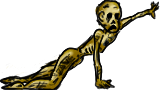
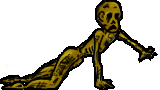
momia

diff --git a/Documents/Cuarto/Videojuegos/ProyectoFinal/src/proyectofinal/Momia.java b/Documents/Cuarto/Videojuegos/ProyectoFinal/src/proyectofinal/Momia.java
@@ -47,11 +47,19 @@ public class Momia extends Base {
         super(posX, posY);
         //Se cargan las imágenes(cuadros) para la animación
         Image momia = Toolkit.getDefaultToolkit().getImage(this.getClass().getResource("images/momia.png"));
+        Image momia1 = Toolkit.getDefaultToolkit().getImage(this.getClass().getResource("images/momia1.png"));
         Image momia2 = Toolkit.getDefaultToolkit().getImage(this.getClass().getResource("images/momia2.png"));
+        Image momia3 = Toolkit.getDefaultToolkit().getImage(this.getClass().getResource("images/momia3.png"));
+        Image momia4 = Toolkit.getDefaultToolkit().getImage(this.getClass().getResource("images/momia4.png"));
+        Image momia5 = Toolkit.getDefaultToolkit().getImage(this.getClass().getResource("images/momia5.png"));
         //Se crea la animación
         anima = new Animacion();
         anima.sumaCuadro(momia, 100);
+        anima.sumaCuadro(momia1, 100);
         anima.sumaCuadro(momia2, 100);
+        anima.sumaCuadro(momia3, 100);
+        anima.sumaCuadro(momia4, 100);
+        anima.sumaCuadro(momia5, 100);
     }
     /**
      * Metodo que hace llamada al metodo de anima para actualizar la imagen segun el tiempo
